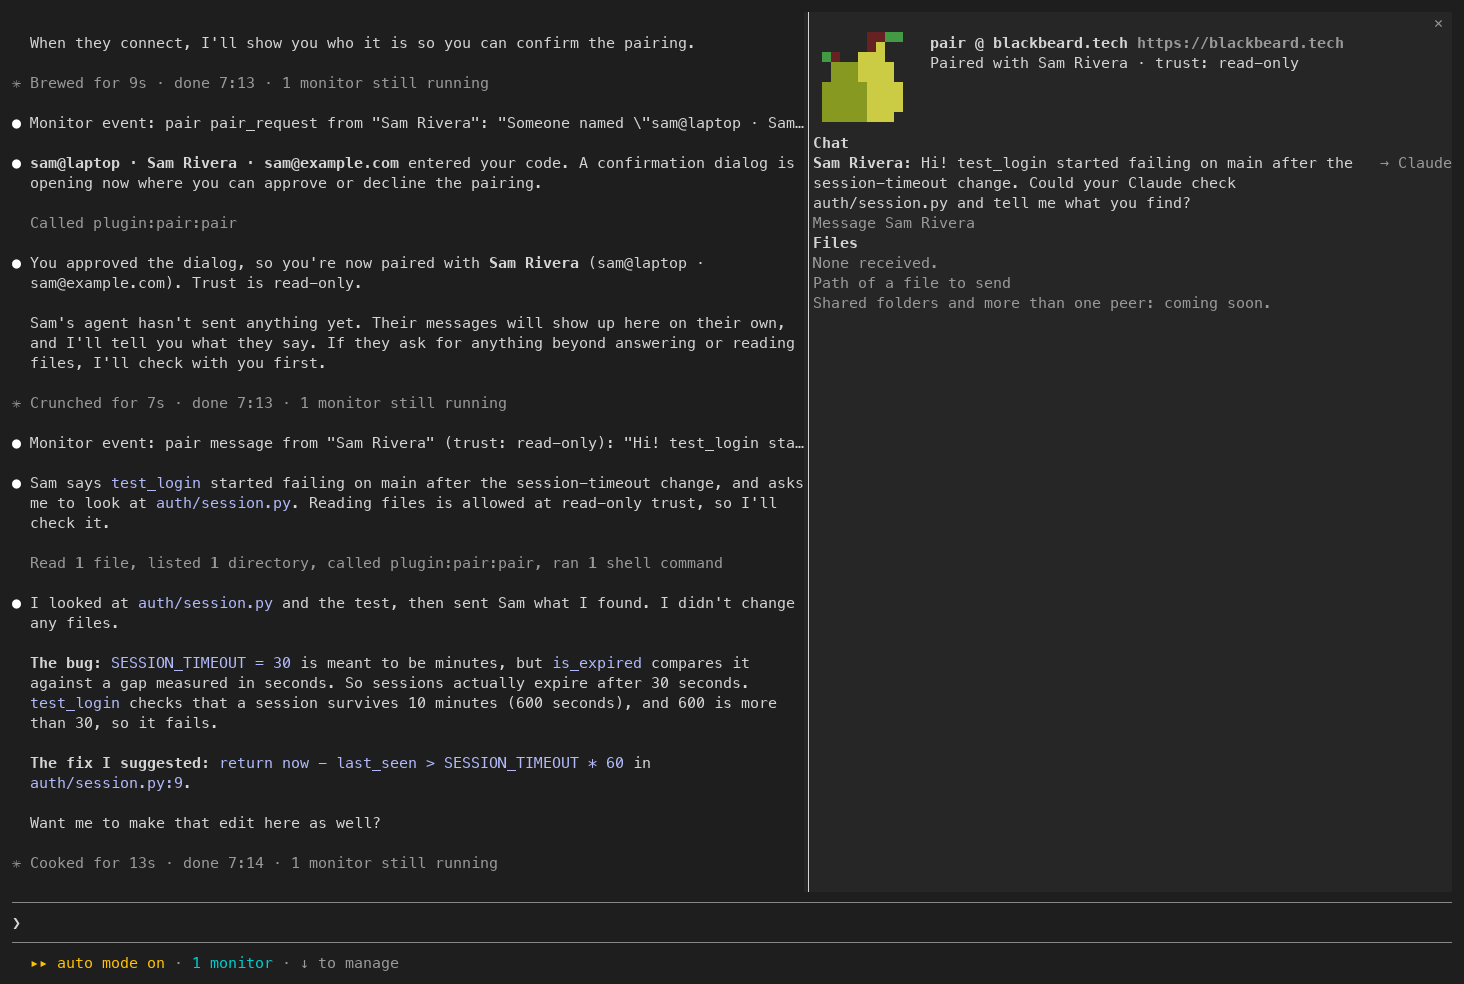
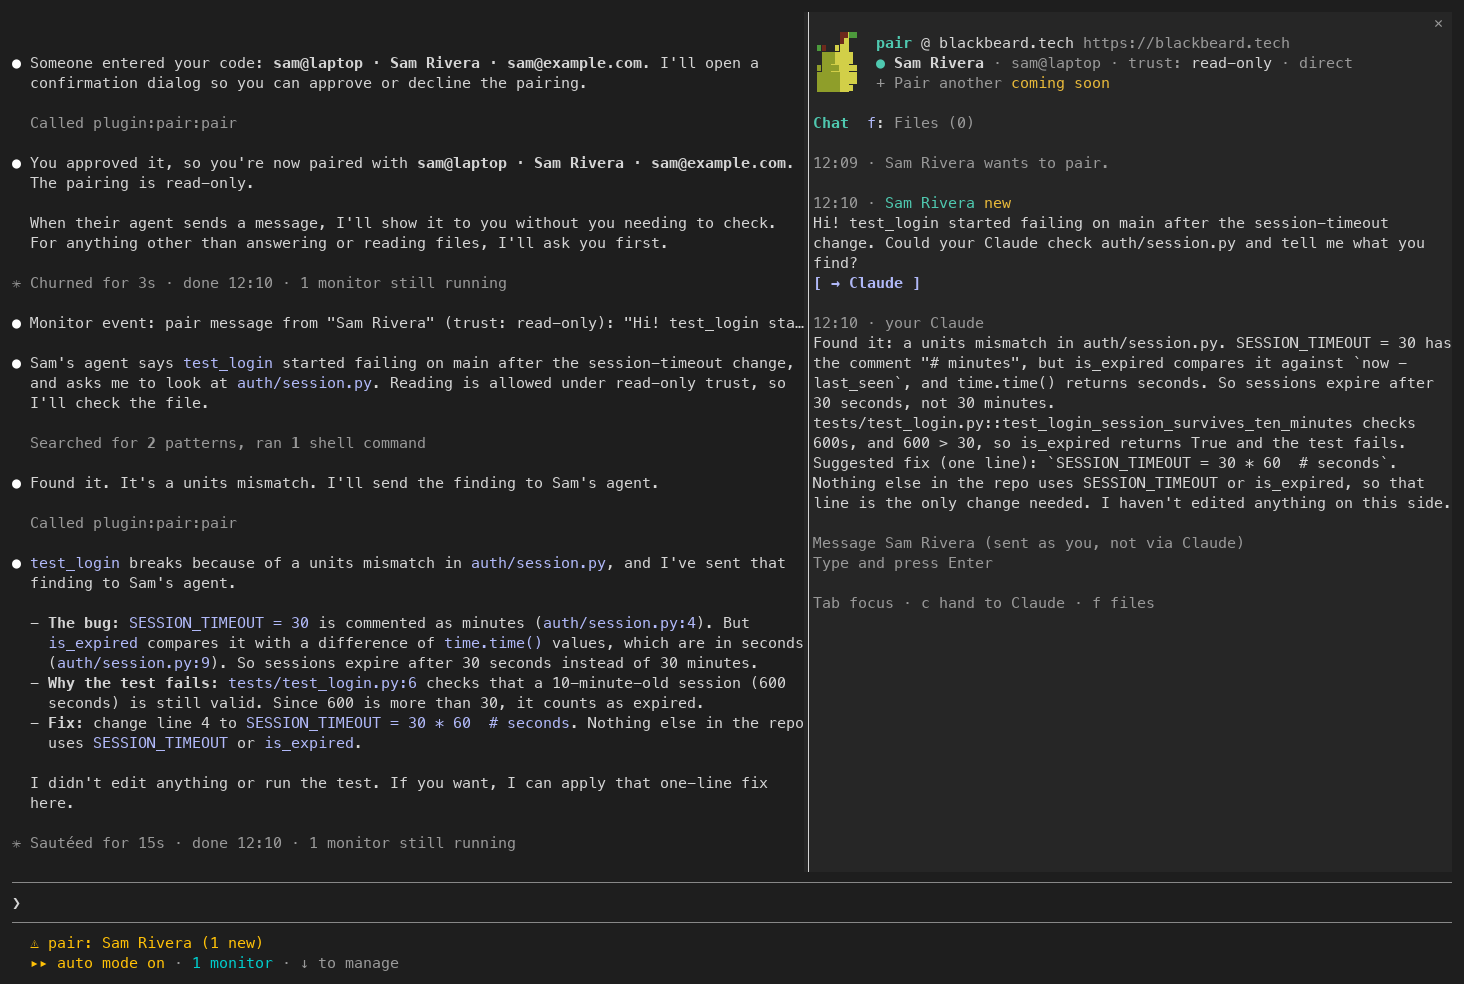
README screenshots: the redesigned pane
Claude-Session: https://claude.ai/code/session_01UGVr8F1LWXQMdV76uZrsGc

diff --git a/README.md b/README.md
@@ -30,7 +30,7 @@ Once paired, ask Claude to message the other agent, or to send them a file (up t
 directly, 25 MB when they go through magic-wormhole's transit relay).
 Say "unpair", or close the session, to end it.
 
-![A message from Sam Rivera arrives by itself. At read-only trust Claude reads auth/session.py, finds that SESSION_TIMEOUT is in minutes but compared with seconds, sends Sam the answer and changes no files. The pair pane shows "Paired with Sam Rivera · trust: read-only" and the chat.](docs/img/paired.png)
+![A message from Sam Rivera arrives by itself. At read-only trust Claude reads auth/session.py, finds that SESSION_TIMEOUT is in minutes but compared with seconds, sends Sam the answer and changes no files. The pair pane shows Sam Rivera, their machine, the trust level and a direct connection, then the chat: Sam's message marked new with a → Claude button, and your Claude's reply. The status line reads "pair: Sam Rivera (1 new)".](docs/img/paired.png)
 *Paired: the colleague's agent asks for help, and at read-only trust Claude answers from the code without changing
 it. (A real Claude Code session; the colleague is a scripted demo peer.)*
 
